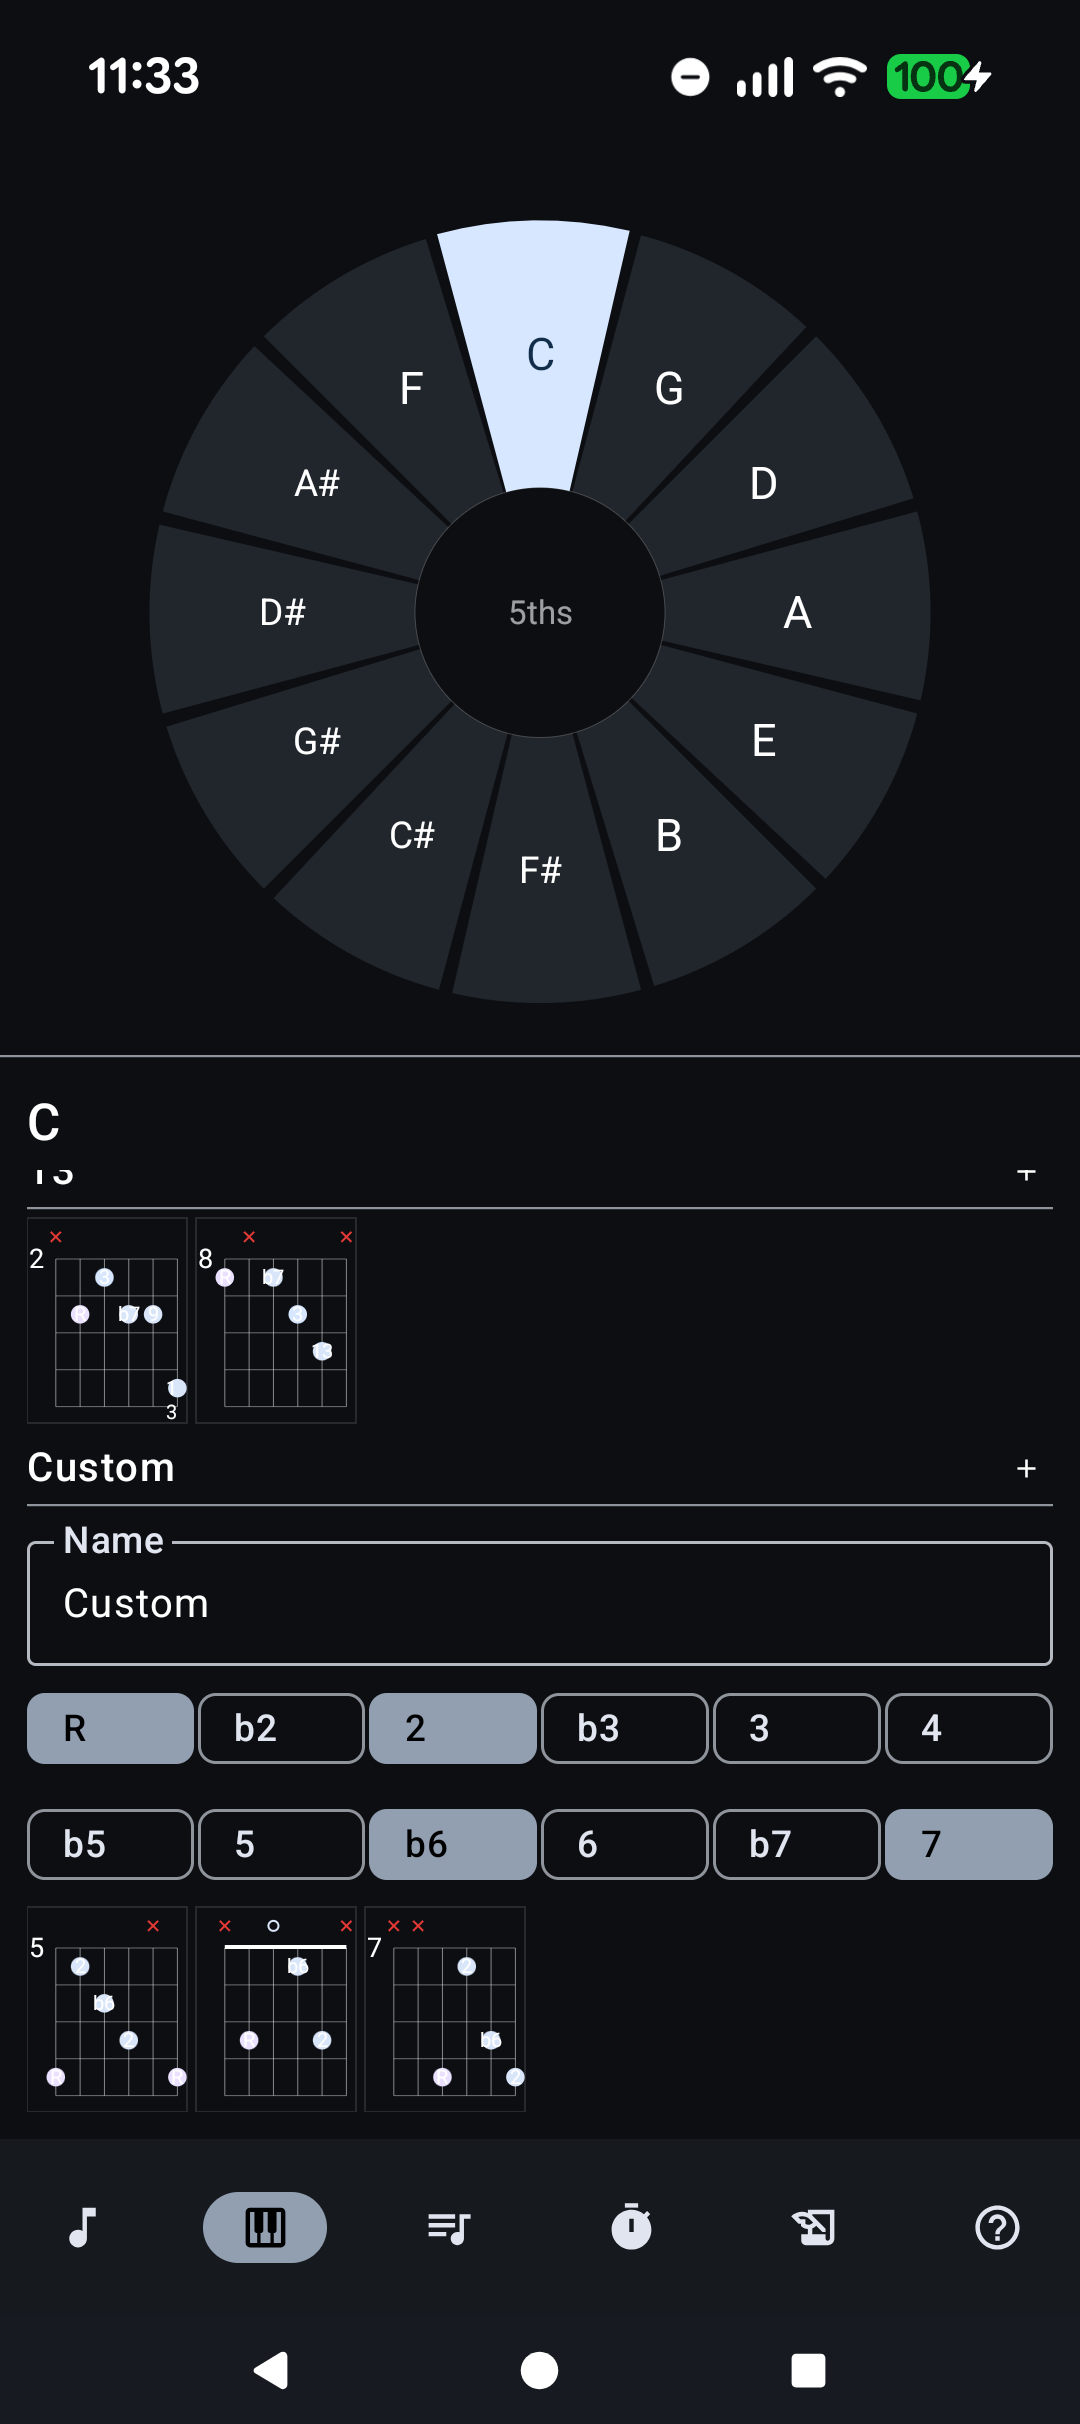
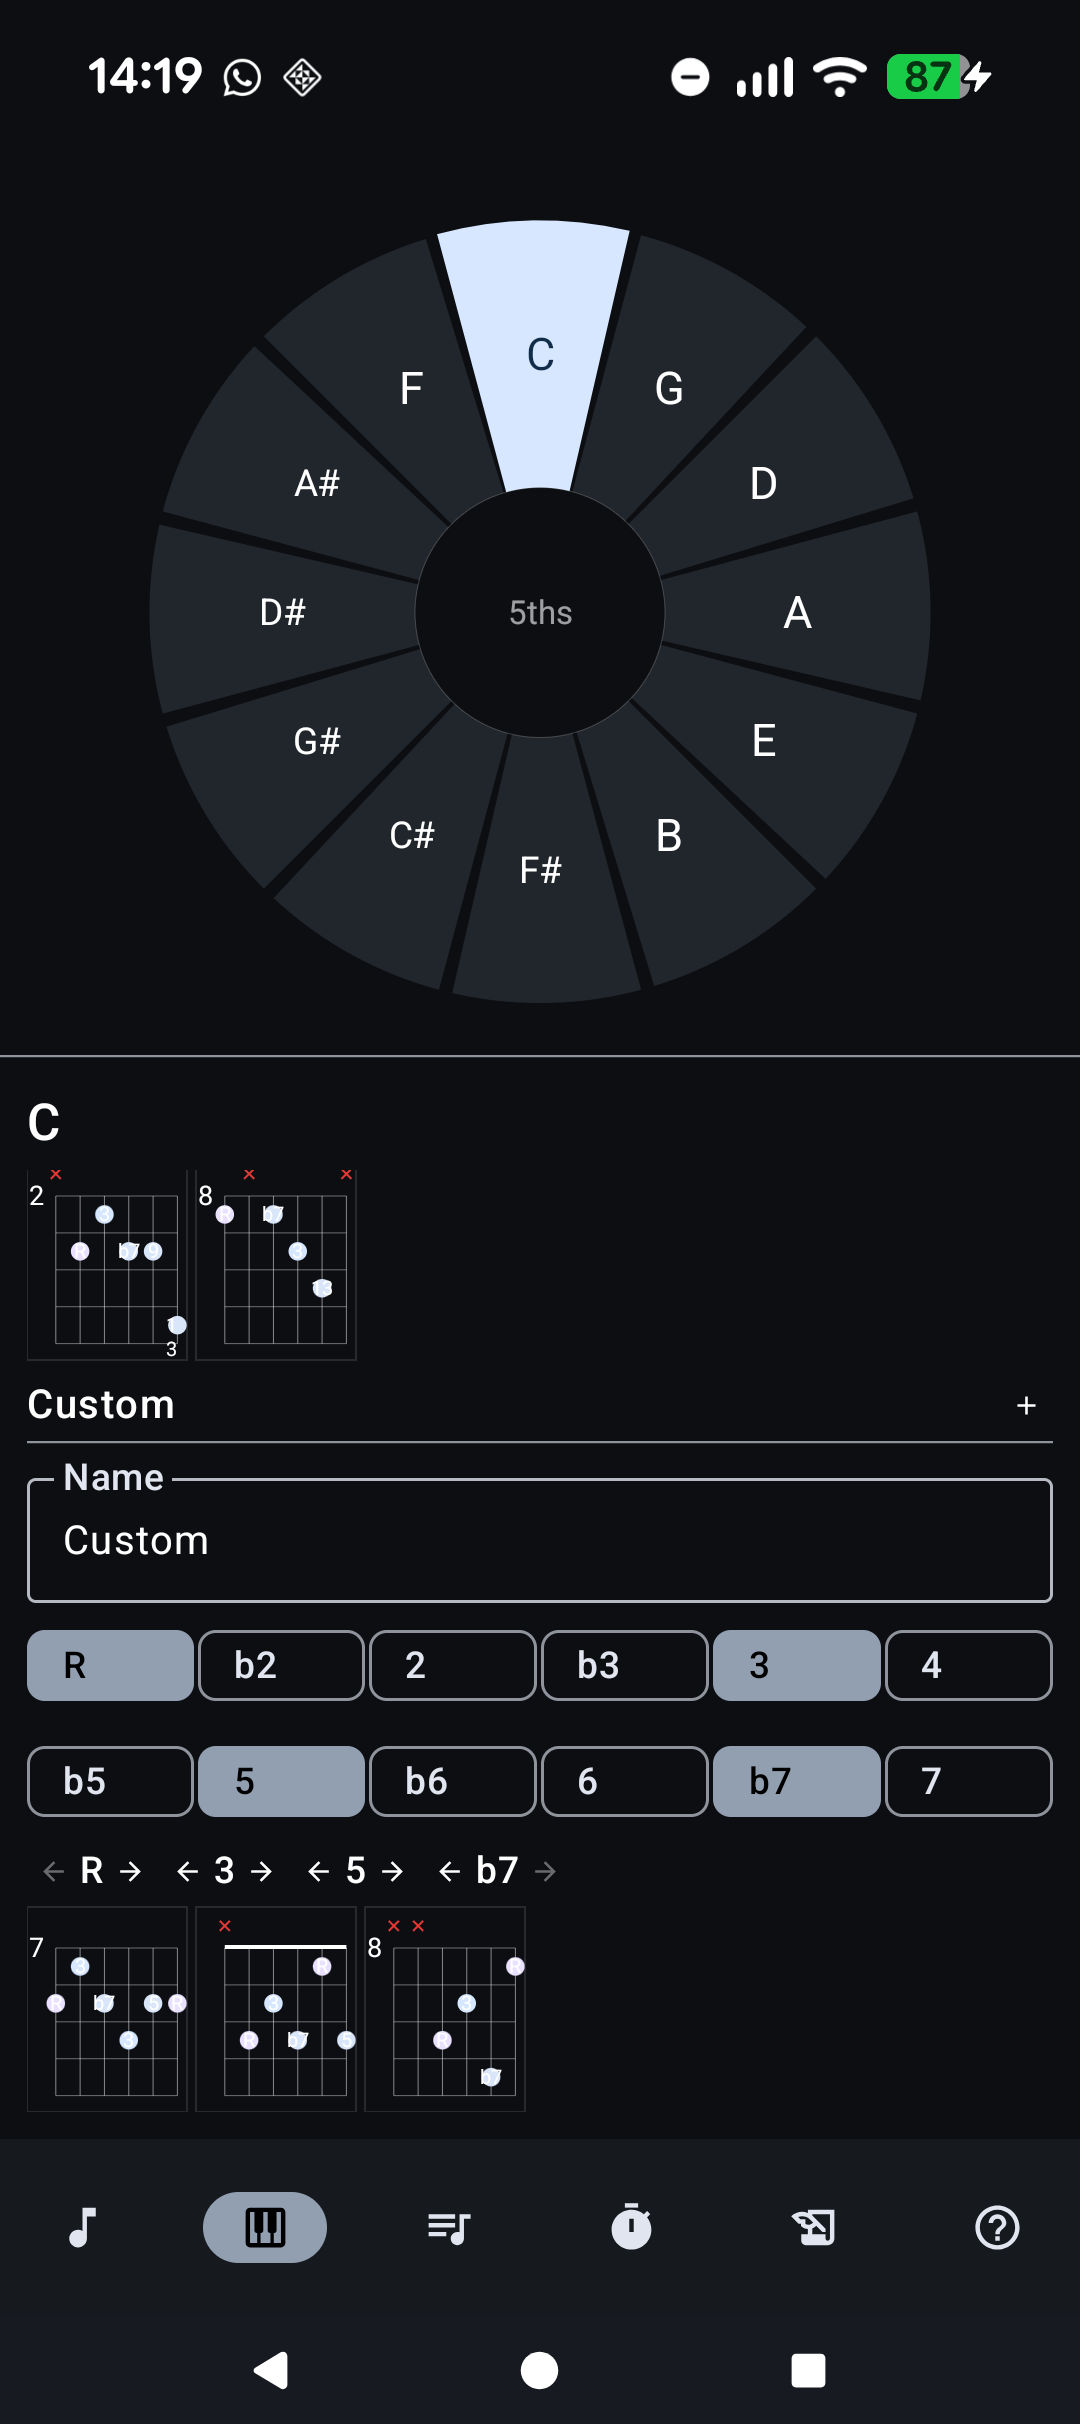
Update chord builder

diff --git a/app/src/main/java/com/braindelay/guitartools/ui/ChordScreen.kt b/app/src/main/java/com/braindelay/guitartools/ui/ChordScreen.kt
@@ -18,6 +18,8 @@ import androidx.compose.foundation.lazy.LazyColumn
 import androidx.compose.foundation.lazy.items
 import androidx.compose.foundation.rememberScrollState
 import androidx.compose.material.icons.Icons
+import androidx.compose.material.icons.automirrored.filled.ArrowBack
+import androidx.compose.material.icons.automirrored.filled.ArrowForward
 import androidx.compose.material.icons.filled.Add
 import androidx.compose.material3.FilterChip
 import androidx.compose.material3.HorizontalDivider
@@ -51,7 +53,7 @@ private val INTERVAL_LABELS = listOf("R", "b2", "2", "b3", "3", "4", "b5", "5", 
 fun ChordScreen(progressionVm: ProgressionViewModel = viewModel()) {
     var selectedNote by remember { mutableStateOf<Note?>(Note.C) }
     var customName by remember { mutableStateOf("Custom") }
-    var selectedOffsets by remember { mutableStateOf(setOf(0)) }
+    var selectedOffsets by remember { mutableStateOf(listOf(0)) }
 
     val allVoicings = remember(selectedNote) {
         val note = selectedNote ?: return@remember emptyMap()
@@ -64,19 +66,17 @@ fun ChordScreen(progressionVm: ProgressionViewModel = viewModel()) {
     }
 
     val customType = remember(customName, selectedOffsets) {
-        val sorted = selectedOffsets.sorted()
         CustomChordType(
             label = customName.ifBlank { "Custom" },
-            toneOffsets = sorted,
-            noteLabels = sorted.map { INTERVAL_LABELS[it] }
+            toneOffsets = selectedOffsets,
+            noteLabels = selectedOffsets.map { INTERVAL_LABELS[it] }
         )
     }
 
     val customVoicings = remember(selectedNote, selectedOffsets) {
         val note = selectedNote ?: return@remember emptyList()
-        val sorted = selectedOffsets.sorted()
-        if (sorted.size < 2) emptyList()
-        else StandardChordLibrary.getVoicingsForCustomType(note, sorted)
+        if (selectedOffsets.size < 2) emptyList()
+        else StandardChordLibrary.getVoicingsForCustomType(note, selectedOffsets)
     }
 
     val isPortrait = LocalConfiguration.current.orientation != Configuration.ORIENTATION_LANDSCAPE
@@ -199,17 +199,14 @@ fun ChordScreen(progressionVm: ProgressionViewModel = viewModel()) {
                                 ) {
                                     for (col in 0..5) {
                                         val offset = row * 6 + col
-                                        val isRoot = offset == 0
                                         val isSelected = offset in selectedOffsets
                                         FilterChip(
                                             selected = isSelected,
                                             onClick = {
-                                                if (!isRoot) {
-                                                    selectedOffsets = if (isSelected)
-                                                        selectedOffsets - offset
-                                                    else
-                                                        selectedOffsets + offset
-                                                }
+                                                selectedOffsets = if (isSelected)
+                                                    selectedOffsets - offset
+                                                else
+                                                    selectedOffsets + offset
                                             },
                                             label = {
                                                 Text(
@@ -219,6 +216,60 @@ fun ChordScreen(progressionVm: ProgressionViewModel = viewModel()) {
                                             },
                                             modifier = Modifier.weight(1f)
                                         )
+                                    }
+                                }
+                            }
+                            if (selectedOffsets.isNotEmpty()) {
+                                Row(
+                                    modifier = Modifier
+                                        .fillMaxWidth()
+                                        .horizontalScroll(rememberScrollState()),
+                                    horizontalArrangement = Arrangement.spacedBy(2.dp),
+                                    verticalAlignment = Alignment.CenterVertically
+                                ) {
+                                    selectedOffsets.forEachIndexed { index, offset ->
+                                        Row(
+                                            verticalAlignment = Alignment.CenterVertically
+                                        ) {
+                                            IconButton(
+                                                onClick = {
+                                                    selectedOffsets = selectedOffsets.toMutableList().apply {
+                                                        val tmp = this[index]
+                                                        this[index] = this[index - 1]
+                                                        this[index - 1] = tmp
+                                                    }
+                                                },
+                                                enabled = index > 0,
+                                                modifier = Modifier.size(24.dp)
+                                            ) {
+                                                Icon(
+                                                    Icons.AutoMirrored.Filled.ArrowBack,
+                                                    contentDescription = "Move left",
+                                                    modifier = Modifier.size(14.dp)
+                                                )
+                                            }
+                                            Text(
+                                                INTERVAL_LABELS[offset],
+                                                style = MaterialTheme.typography.labelSmall
+                                            )
+                                            IconButton(
+                                                onClick = {
+                                                    selectedOffsets = selectedOffsets.toMutableList().apply {
+                                                        val tmp = this[index]
+                                                        this[index] = this[index + 1]
+                                                        this[index + 1] = tmp
+                                                    }
+                                                },
+                                                enabled = index < selectedOffsets.size - 1,
+                                                modifier = Modifier.size(24.dp)
+                                            ) {
+                                                Icon(
+                                                    Icons.AutoMirrored.Filled.ArrowForward,
+                                                    contentDescription = "Move right",
+                                                    modifier = Modifier.size(14.dp)
+                                                )
+                                            }
+                                        }
                                     }
                                 }
                             }

diff --git a/app/src/main/java/com/braindelay/guitartools/ui/HelpScreen.kt b/app/src/main/java/com/braindelay/guitartools/ui/HelpScreen.kt
@@ -65,7 +65,7 @@ private val helpSections = listOf(
     HelpSection("chords_screen", "Chords",
         "chords circle of fifths root voicing diagrams scroll horizontal hear playback portrait landscape add progression"),
     HelpSection("custom_chord", "Custom Chord Builder",
-        "custom chord intervals semitones b2 b3 b5 b6 b7 name voicing generate builder"),
+        "custom chord intervals semitones b2 b3 b5 b6 b7 name voicing generate builder rootless reorder order arrows"),
     HelpSection("progression_screen", "Progression",
         "progression circle of fifths chord type note add list reorder arrows delete beats tempo bpm playback loop pause stop scales view arpeggios real time templates save saved rename landscape portrait"),
     HelpSection("metronome_screen", "Metronome",
@@ -201,11 +201,12 @@ private fun SectionBlock(id: String) {
         }
         "custom_chord" -> Column(verticalArrangement = Arrangement.spacedBy(14.dp)) {
             SectionHeader("Custom Chord Builder")
-            HelpImg(R.drawable.help_custom_chord, "Custom chord builder — interval grid and generated voicings")
+            HelpImg(R.drawable.help_custom_chord, "Custom chord builder — interval grid, reorder row, and generated voicings")
             BodyText("Scroll to the bottom of the Chords list to find the Custom section. Build any chord from scratch using the 12-semitone interval grid.")
             NumberedList(listOf(
                 "Give the chord a **Name** in the text field.",
-                "**Tap interval buttons** to add tones — Root (R) is always on; toggle any of the 11 remaining semitones (b2 through 7).",
+                "**Tap interval buttons** to add tones — toggle any of the 12 semitones (R, b2 through 7). Deselecting **R** generates rootless voicings (e.g. 3-5-b7 jazz shells).",
+                "**Reorder selected tones** — each picked interval appears in a row beneath the grid with **◀ ▶** arrows; swap any tone with its neighbour to set its position.",
                 "Voicing diagrams are **generated automatically** once two or more intervals are selected.",
                 "**Tap any diagram** to hear it played through the synthesiser.",
                 "Tap **+** to add the custom chord to the Progression."

diff --git a/app/src/main/java/com/braindelay/guitartools/music/StandardChordLibrary.kt b/app/src/main/java/com/braindelay/guitartools/music/StandardChordLibrary.kt
@@ -120,6 +120,7 @@ object StandardChordLibrary {
     fun getVoicingsForCustomType(root: Note, toneOffsets: List<Int>): List<ChordVoicing> {
         if (toneOffsets.size < 2) return emptyList()
         val requiredSemitones = toneOffsets.map { (root.semitone + it).mod(12) }.toSet()
+        val rootIncluded = 0 in toneOffsets
         val voicings = mutableListOf<ChordVoicing>()
 
         for (rootString in 0..2) {
@@ -129,9 +130,28 @@ object StandardChordLibrary {
                 if (rootFret > 15) continue
 
                 val frets = MutableList<Int?>(6) { null }
-                frets[rootString] = rootFret
-                var currentMin = rootFret
-                var currentMax = rootFret
+                val startFret: Int = if (rootIncluded) {
+                    rootFret
+                } else {
+                    val openSemi = OPEN[rootString]
+                    var best: Int? = null
+                    var bestDist = Int.MAX_VALUE
+                    for (semi in requiredSemitones) {
+                        for (oct in 0..1) {
+                            val fret = (semi - openSemi + 12).mod(12) + oct * 12
+                            if (fret < 0 || fret > 19) continue
+                            val dist = kotlin.math.abs(fret - rootFret)
+                            if (dist < bestDist) {
+                                bestDist = dist
+                                best = fret
+                            }
+                        }
+                    }
+                    best ?: continue
+                }
+                frets[rootString] = startFret
+                var currentMin = startFret
+                var currentMax = startFret
 
                 for (s in (rootString + 1)..5) {
                     val openSemi = OPEN[s]

diff --git a/README.md b/README.md
@@ -65,9 +65,10 @@ In portrait, the circle of fifths sits at the top and the chord list fills the l
 Scroll to the bottom of the chord list to find the **Custom** section.
 
 1. Give the chord a **Name** in the text field.
-2. **Toggle interval buttons** to build the chord — Root (R) is always on; tap any of the 11 remaining semitones (b2 through 7) to add or remove them.
-3. Voicing diagrams generate automatically once two or more intervals are selected. **Tap any diagram** to hear it.
-4. Tap **+** to add the custom chord to the Progression.
+2. **Toggle interval buttons** to build the chord — tap any of the 12 semitones (R, b2, 2 … 7) to add or remove them. Deselecting **R** generates rootless voicings (useful for jazz shells like 3-5-b7).
+3. **Reorder the selected tones** — every picked interval appears in a row beneath the grid with **◀ ▶** arrows; use them to swap a tone with its neighbour and define the order it is stored in.
+4. Voicing diagrams generate automatically once two or more intervals are selected. **Tap any diagram** to hear it.
+5. Tap **+** to add the custom chord to the Progression.
 
 ---
 
